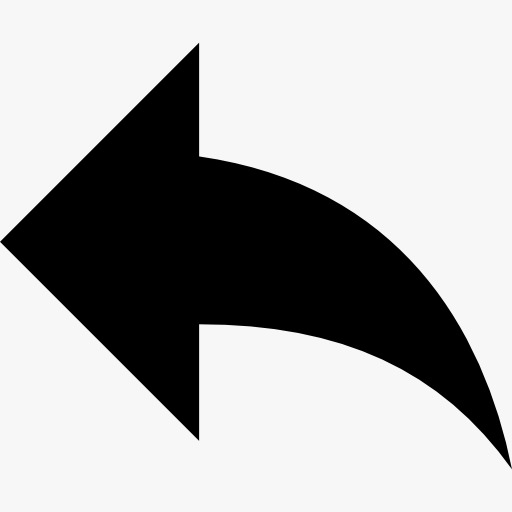
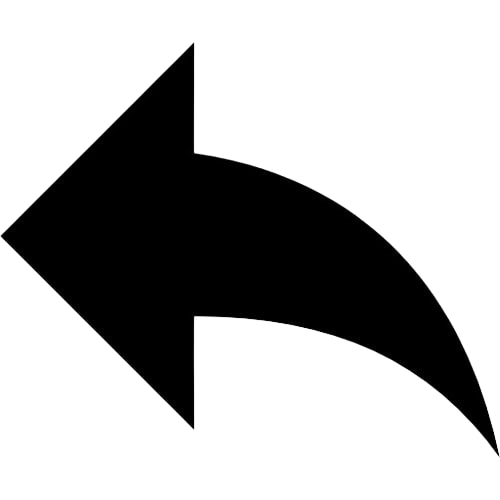
continuo grafica

diff --git a/Progetto_GiocoDiCarte/src/application/FormModalitaGiocatoreController.java b/Progetto_GiocoDiCarte/src/application/FormModalitaGiocatoreController.java
@@ -4,13 +4,33 @@ import javafx.fxml.FXML;
 
 import java.io.IOException;
 import javafx.event.ActionEvent;
+import javafx.scene.control.Button;
 import javafx.scene.input.MouseEvent;
 import classi.Alert_cambiaForm;
 
 public class FormModalitaGiocatoreController
 {
 	Alert_cambiaForm alert = new Alert_cambiaForm();
-
+	@FXML
+	private Button partita = new Button();
+	@FXML
+	private Button torneo = new Button();
+	@FXML
+	public void coloraBottoneP(MouseEvent event) {
+		partita.setStyle("-fx-background-color: white;-fx-border-color: transparent; -fx-border-width: 0");
+	}
+	@FXML
+	public void pulisciBottoneP(MouseEvent event) {
+		partita.setStyle("-fx-background-color: 255,0,0;-fx-border-color: black; -fx-border-width: 2");
+	}
+	@FXML
+	public void coloraBottoneT(MouseEvent event) {
+		torneo.setStyle("-fx-background-color: white;-fx-border-color: transparent; -fx-border-width: 0");
+	}
+	@FXML
+	public void pulisciBottoneT(MouseEvent event) {
+		torneo.setStyle("-fx-background-color: 255,0,0;-fx-border-color: black; -fx-border-width: 2");
+	}
 	@FXML
 	public void btnPartitaSingola(ActionEvent event) throws IOException
 	{
